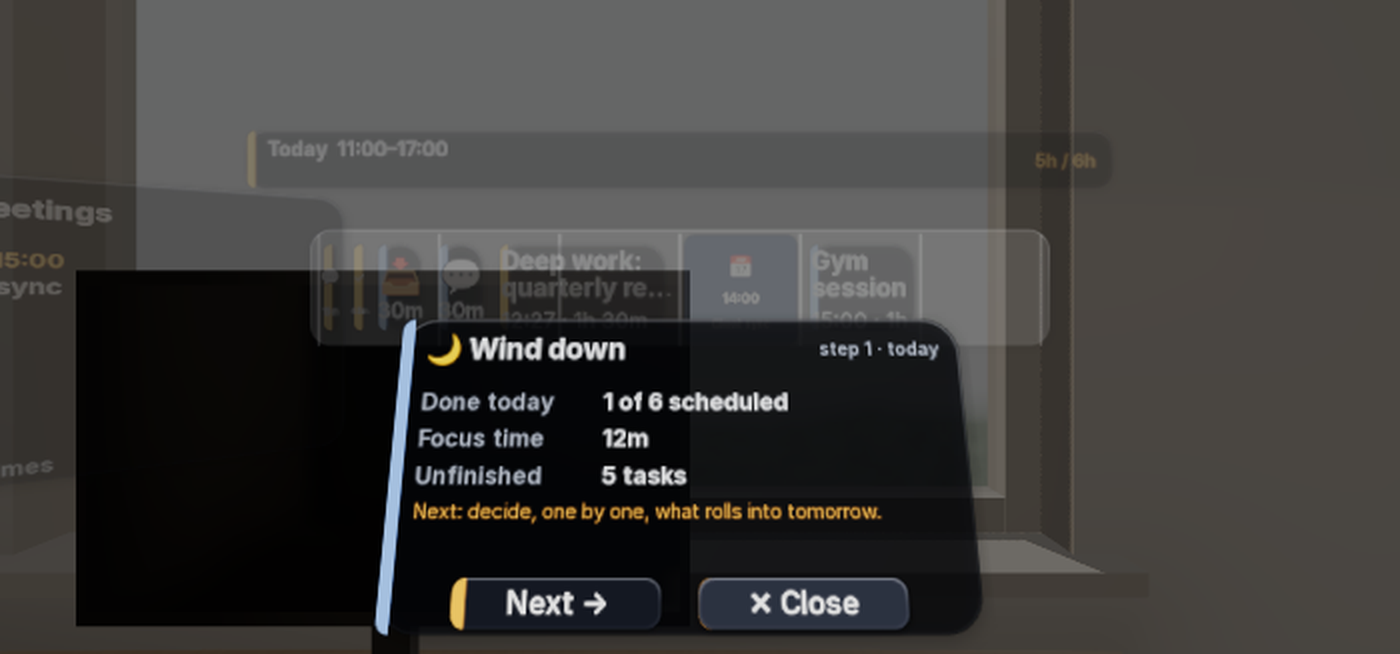
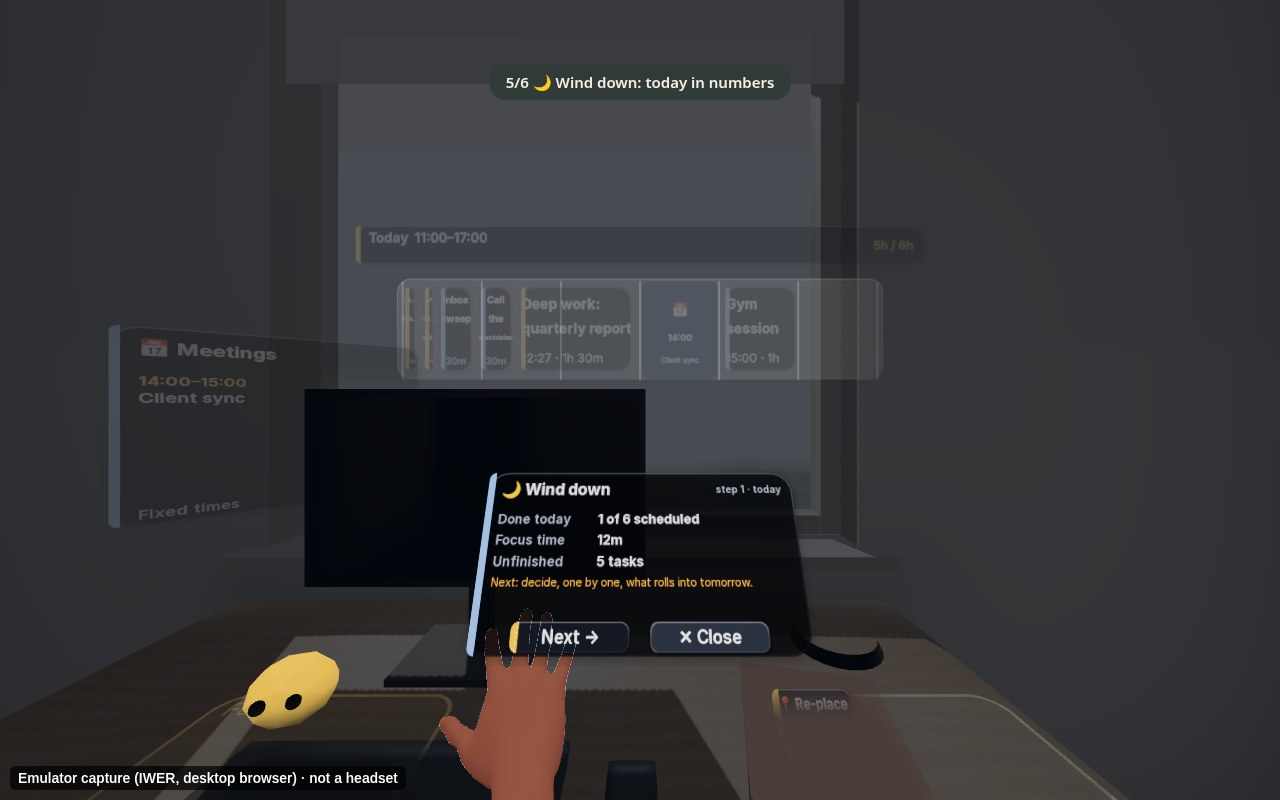
README: 📋 Plan for me, zone patches, &zones=1 flag, new Wind down + anchor screenshots

diff --git a/README.md b/README.md
@@ -16,6 +16,7 @@ Built for the Start Developer Competition (Productivity track, New Experience di
 | [v2 hands-only autoplay](https://muditsharma354abc-bot.github.io/morning-desk/?demo=1&autoplay=1&mr=1&hands=1) | The v2 walkthrough driven by emulated hands only, no controller at any step. |
 | [Morning autoplay](https://muditsharma354abc-bot.github.io/morning-desk/?demo=1&autoplay=1&mr=1&hands=1&clean=1&wake=1&mood=okay) | The v2 hands-only walkthrough that starts with Room wakes up, then picks the Okay mood and keeps the morning plan (`&mood=low` or `&mood=focused` to change it). |
 | [v2 MR autoplay](https://muditsharma354abc-bot.github.io/morning-desk/?demo=1&autoplay=1&mr=1) | About 2 minutes in the emulator's simulated room: desk and timeline placed on the room's table and wall, the same spot after re-entering XR, Re-place, one focus block, and Wind-down. |
+| [v2 MR autoplay with zones](https://muditsharma354abc-bot.github.io/morning-desk/?demo=1&autoplay=1&mr=1&zones=1) | The v2 MR walkthrough plus a Room Zones beat: Focus and Quick zones claimed, cards routed to them, and the look-to-target glow (head gaze). Emulator only. |
 
 On a Quest 3, open the live app in the Meta Quest Browser and press **Enter XR**. On a desktop browser the built-in emulator runs it, no headset or extension needed.
 
@@ -36,7 +37,7 @@ Everything is placed for a seated user, with key UI close to the centre of view.
 - **In front:** the wall timeline, and the Focus panel when you're focusing.
 - **Left:** the meetings board. A meeting that a scheduled block runs into shows a **⚠ clash** warning.
 - **Right:** the pending board with tasks you haven't planned yet ("drag to plan").
-- **On the desk:** must-do task cards within reach, plus the **✨ Plan for me**, **✓ Done**, **? Tutorial** and **↺ Demo reset** buttons.
+- **On the desk:** must-do task cards within reach, plus the **📋 Plan for me**, **✓ Done**, **? Tutorial** and **↺ Demo reset** buttons.
 - **Behind the timeline:** a completed strip showing how many tasks are done.
 
 ## Focus Mode
@@ -85,7 +86,7 @@ During the day it adjusts quietly, with no panel or popup: if a meeting clash ap
 
 ## The smart planner
 
-Tap **✨ Plan for me** and the planner proposes one concrete change at a time. Each change animates into place and waits for your decision: thumbs-up keeps it, thumbs-down undoes it and restores the exact previous plan. **👍 Keep** and **👎 Undo** buttons are there as a fallback.
+Tap **📋 Plan for me** and the planner proposes one concrete change at a time. Each change animates into place and waits for your decision: thumbs-up keeps it, thumbs-down undoes it and restores the exact previous plan. **👍 Keep** and **👎 Undo** buttons are there as a fallback.
 
 It checks, in this order:
 
@@ -169,7 +170,7 @@ Placement uses standard WebXR plane detection, hit-test and anchors through IWSD
 - **Desk:** it looks for a table-height surface first, then tries a hit-test, and if both fail it asks you to tap to place the desk about 60 cm ahead.
 - **Timeline:** it goes on a detected wall in front of you. If no wall is found, it floats about 1.1 m ahead at eye height.
 - **Same spot when you return:** the desk and wall are saved against a persistent WebXR anchor, so the desk comes back in the same spot (tested in the emulator only; untested on a headset). If the anchor can't be found, you place them again.
-- **Room Zones (step 4):** tap 🎯 Claim zone, look to target a real surface (head gaze), then pinch to claim it. The first claim is a Focus zone and the second a Quick zone. The planning agent sends long Pending cards to Focus and short ones to Quick, and you can drop a card on a zone yourself. Zones are stored relative to the anchored desk, so they come back in the same spot (tested in the emulator only; untested on a headset).
+- **Room Zones (step 4):** tap 🎯 Claim zone, look to target a real surface (head gaze), then pinch to claim it. The first claim is a Focus zone and the second a Quick zone. The planning agent sends long Pending cards to Focus and short ones to Quick, and you can drop a card on a zone yourself. Zones are stored relative to the anchored desk, so they come back in the same spot (tested in the emulator only; untested on a headset). A claimed zone shows as a labelled Focus or Quick patch, and the cards sent to it land on the patch.
 - **Look to target:** the card you face for half a second glows. This is head gaze, not eye tracking.
 - **Depth occlusion:** always requested, with no flag needed. If depth sensing isn't granted, the app logs one line and renders normally. Real occlusion only works on a headset and is unverified on Quest 3S.
 
@@ -181,7 +182,9 @@ Placement uses standard WebXR plane detection, hit-test and anchors through IWSD
 
 ![The v2 MR layout in the emulator: meetings left, timeline ahead, pending right, buttons along the desk edge](docs/screenshots/05-mr-placement.png)
 
-![Wind down in the v2 MR walkthrough, step 1: done today, focus time and unfinished tasks, then decide what rolls into tomorrow (in this frame the dialog edge still sits slightly over the timeline; a fix is on main)](docs/screenshots/06-wind-down.png)
+![Wind down in the v2 MR walkthrough, step 1: done today, focus time and unfinished tasks, then decide what rolls into tomorrow (emulator; the dialog sits clear of the timeline)](docs/screenshots/06-wind-down.png)
+
+![After leaving and re-entering XR in the emulator, the desk is back in the same spot (tested in the emulator only; untested on a headset)](docs/screenshots/16-anchor-restored.png)
 
 ## Accessibility, progress and testing
 
@@ -211,7 +214,7 @@ Close-up distances: cards sit within reach (about 60 cm), the Focus and summary 
 ### URL flags
 
 - `?mr=1` runs the MR flow in the emulator, seated at the simulated room's desk. Real headsets use it automatically.
-- `?demo=1&autoplay=1&mr=1` is the v2 walkthrough. `?demo=1&autoplay=1&clean=1` is the original walkthrough, unchanged.
+- `?demo=1&autoplay=1&mr=1` is the v2 walkthrough. Add `&zones=1` to it (`?demo=1&autoplay=1&mr=1&zones=1`) for a Room Zones beat: it claims a Focus and a Quick zone, routes cards to them, and shows the look-to-target glow (head gaze, never eye tracking). `?demo=1&autoplay=1&clean=1` is the original walkthrough, unchanged.
 - `?tutorial=1` restarts the tutorial on a fresh sample desk, and `?hands=1` makes the autoplay walkthrough use hands only (`?demo=1&autoplay=1&mr=1&hands=1`). Hands are already the default everywhere else.
 - `?contrast=1` starts in high contrast, and `?test=1` shows the headset test checklist.
 - `?controllers=1` switches the emulator to controllers instead of hands, and `?gizmos=1` shows the emulator's move gizmos (both hidden by default).
